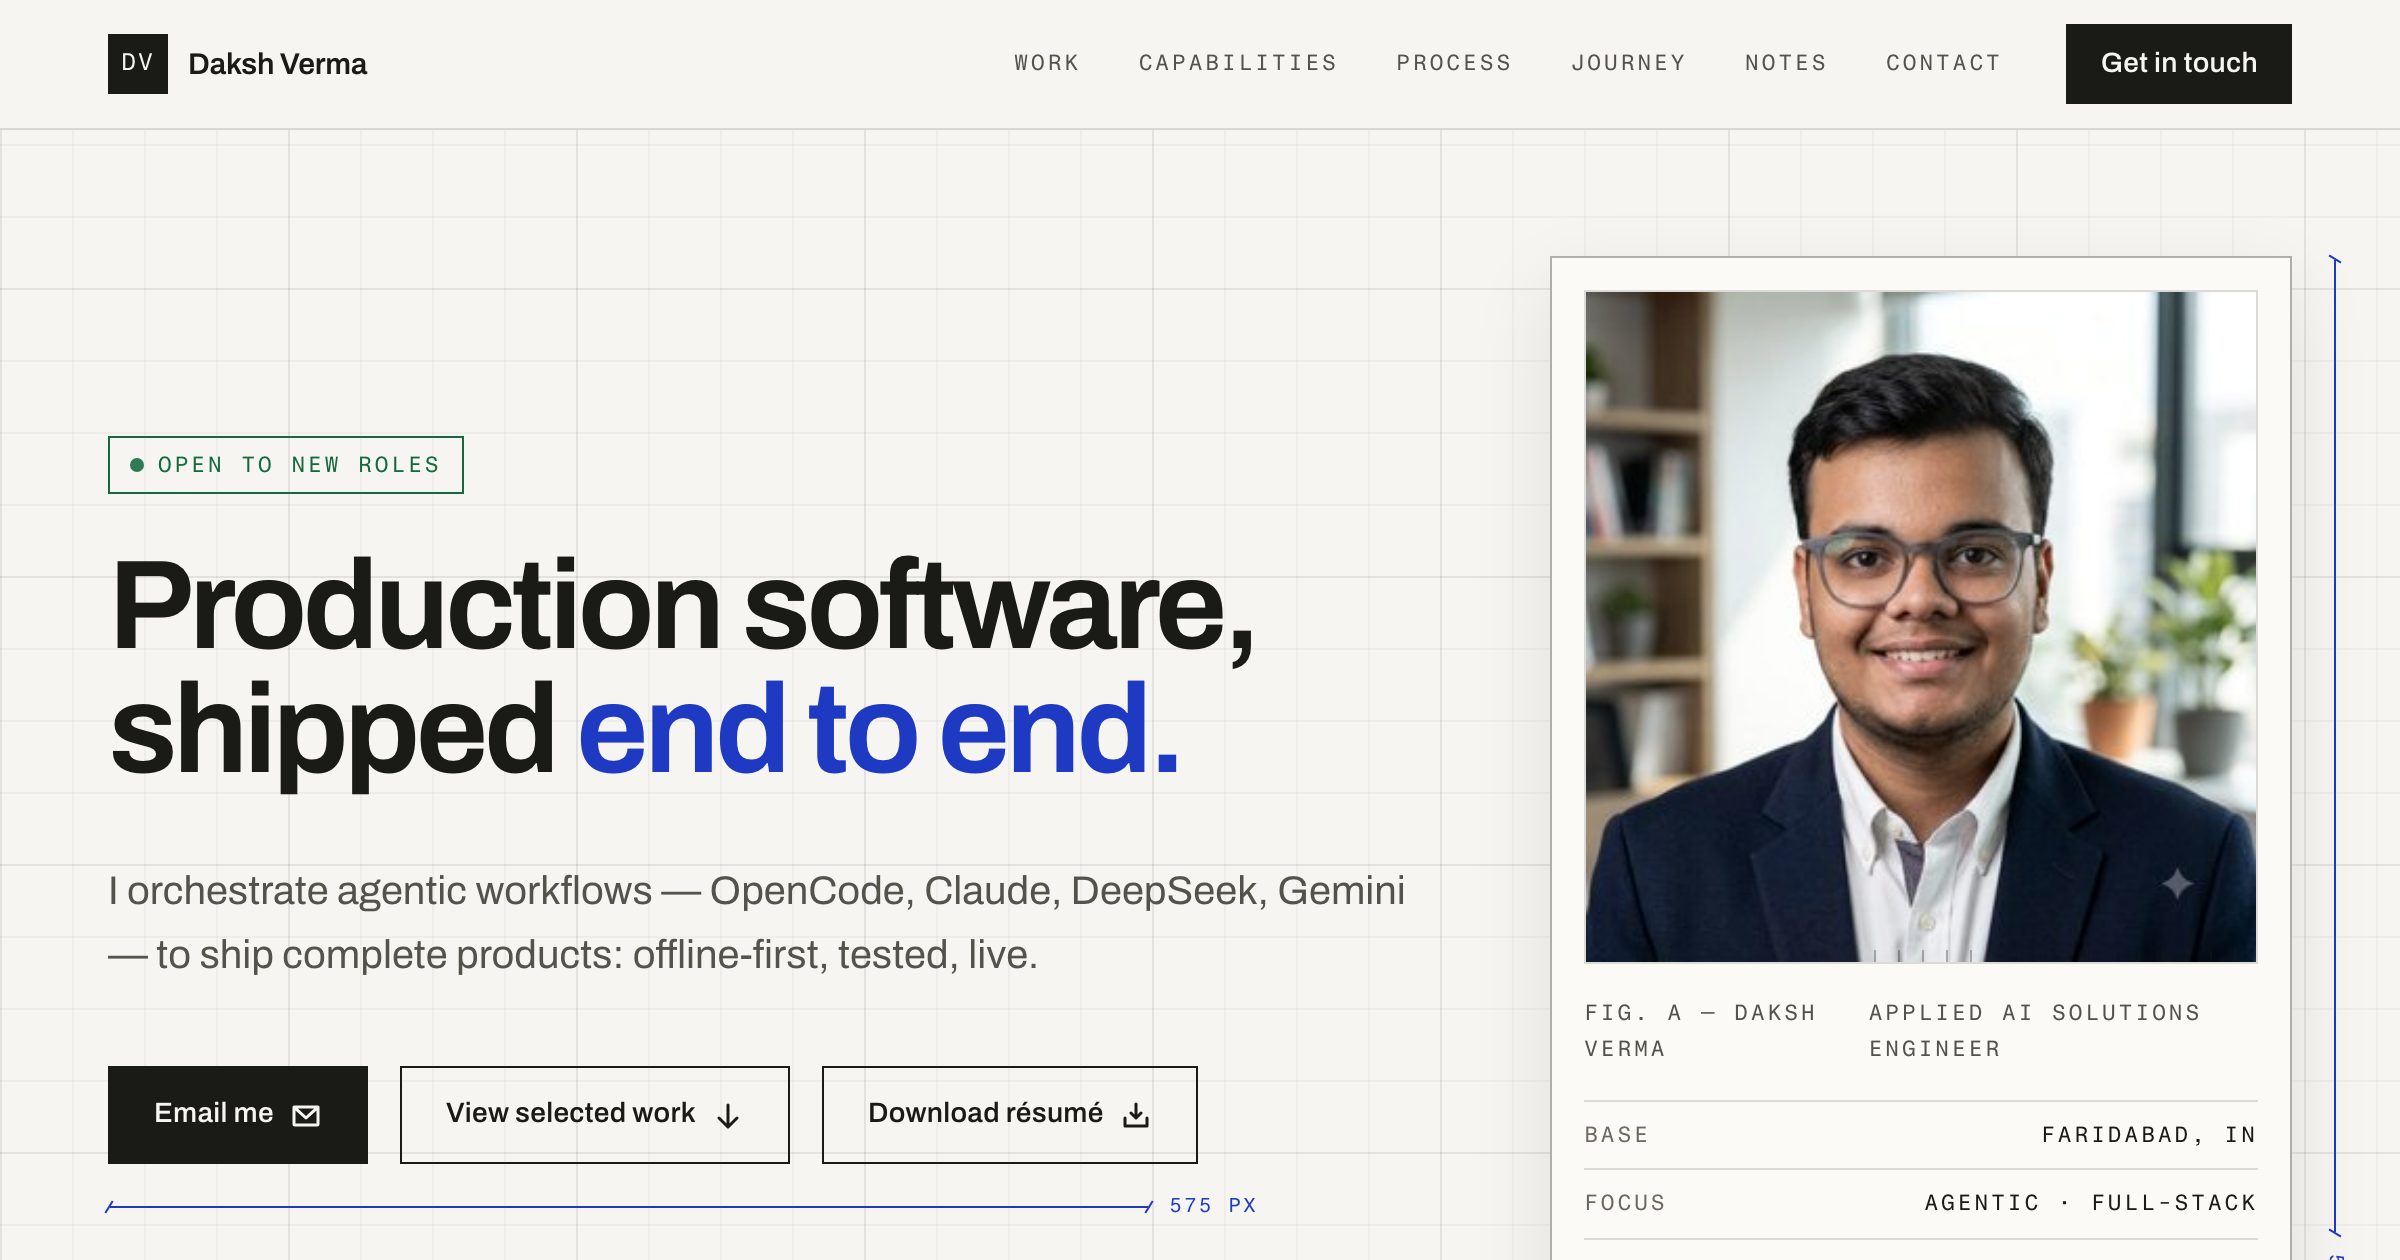
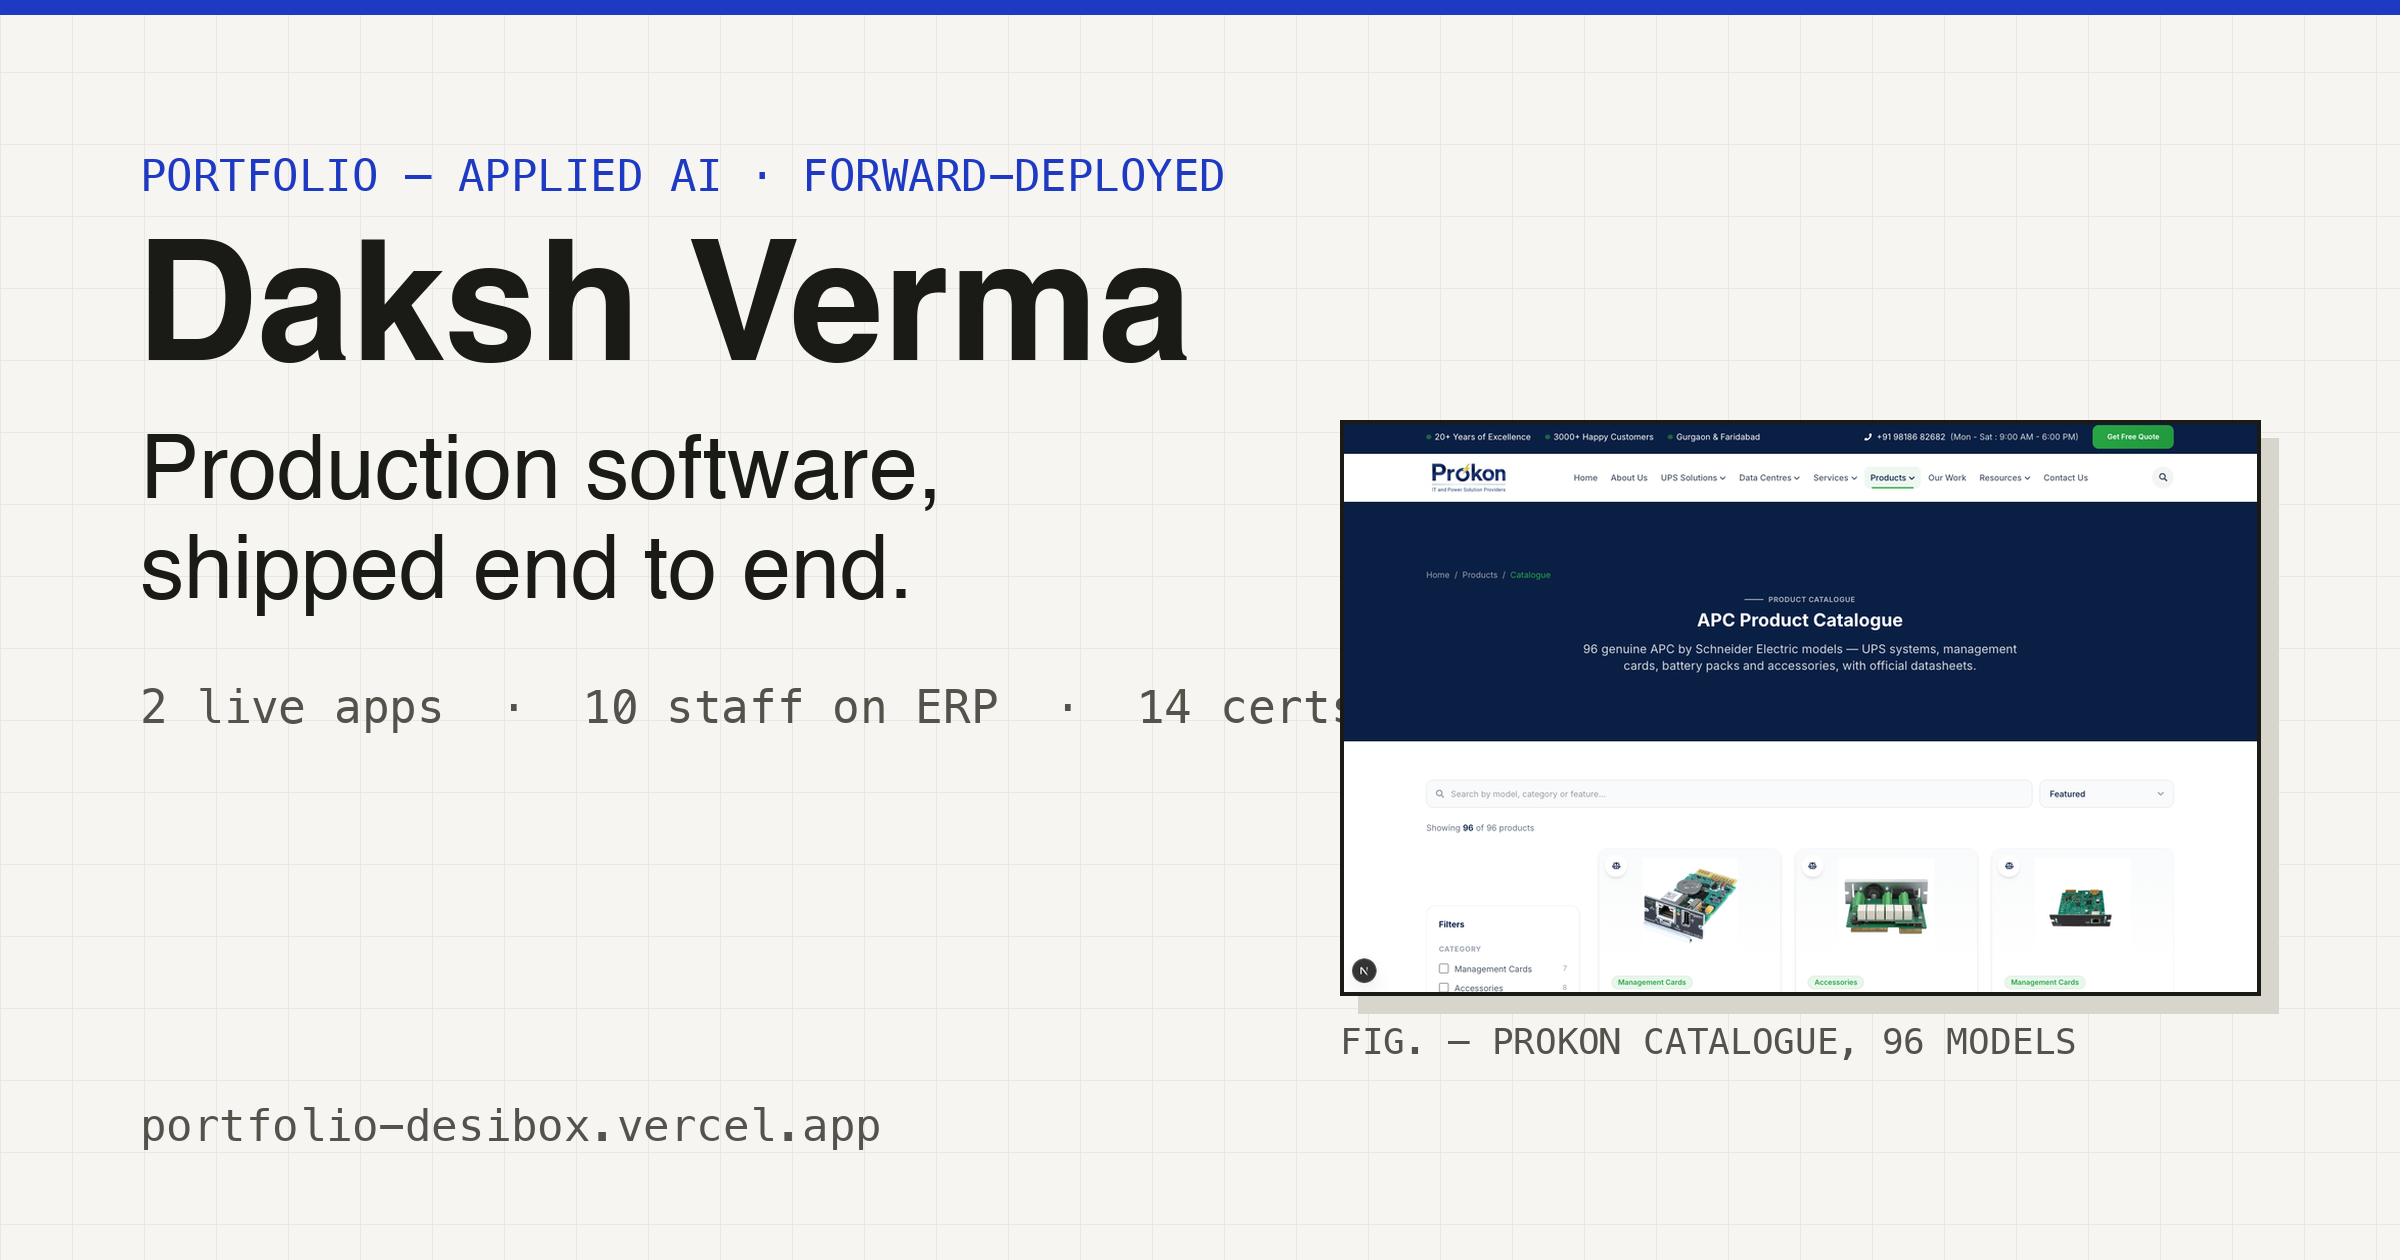
feat(portfolio): [9.seo-parity] dual-role JSON-LD, live content, new og card
- Person description + knowsAbout carry Applied AI, FDE, RAG,
  TypeScript, Next.js, TanStack, ERP/CRM; FAQPage gains 3 questions
  (forward-deployed, website rebuild, ERP/CRM)
- llms.txt/llms-full.txt: Building-now section, 8-domain skills,
  new notes; cert count drift 15+ to 14 fixed
- og-image rebuilt 2400x1260: name, positioning, proof points,
  catalogue figure

diff --git a/index.html b/index.html
@@ -34,7 +34,7 @@
       "@type": "Person",
       "name": "Daksh Verma",
       "jobTitle": "Applied AI Solutions Engineer",
-      "description": "Applied AI Solutions Engineer building end-to-end AI-powered products — data pipelines, AI orchestration with OpenCode, and production full-stack web applications.",
+      "description": "Applied AI Solutions Engineer building end-to-end AI-powered products — agentic workflows, RAG assistants, multi-model orchestration — and deploying them forward, embedded with the operators who use them. Currently shipping a company website rebuild and an ERP/CRM used daily by 10 staff at Prokon Hi-Tech.",
       "url": "https://portfolio-desibox.vercel.app/",
       "image": "https://portfolio-desibox.vercel.app/og-image.png",
       "email": "mailto:vermadaksh120@gmail.com",
@@ -44,7 +44,7 @@
         "addressLocality": "Faridabad",
         "addressCountry": "IN"
       },
-      "knowsAbout": ["Artificial Intelligence", "Prompt Engineering", "AI Orchestration", "Agentic Workflows", "SQL", "MongoDB", "Power BI", "Data Engineering", "React", "Python"],
+      "knowsAbout": ["Artificial Intelligence", "Forward-Deployed Engineering", "Prompt Engineering", "AI Orchestration", "Agentic Workflows", "RAG", "TypeScript", "Next.js", "TanStack Start", "SQL", "PostgreSQL", "MongoDB", "Power BI", "Data Engineering", "ERP/CRM Systems", "React", "Python"],
       "sameAs": ["https://www.linkedin.com/in/daksh-verma-613774229/", "https://github.com/Madav-Verma"],
       "worksFor": {
         "@type": "Organization",
@@ -66,7 +66,31 @@
           "name": "What does Daksh Verma do?",
           "acceptedAnswer": {
             "@type": "Answer",
-            "text": "Applied AI Solutions Engineer in Faridabad, India. I ship complete production products with agentic workflows, orchestrating OpenCode, Claude, DeepSeek and Gemini from scope to deploy. Currently at Prokon Hi-Tech and open to new roles."
+            "text": "Applied AI Solutions Engineer in Faridabad, India, working in a forward-deployed way — embedded with the operators who use the software. I ship complete production products with agentic workflows, orchestrating OpenCode, Claude, DeepSeek and Gemini from scope to deploy. Currently at Prokon Hi-Tech and open to new roles."
+          }
+        },
+        {
+          "@type": "Question",
+          "name": "What is a forward-deployed engineer, and how does that fit you?",
+          "acceptedAnswer": {
+            "@type": "Answer",
+            "text": "Someone who ships software inside the customer's reality instead of a clean spec — discovery on site, design under real constraints, rollout and adoption. My jewellery-store suite is offline-first because the shop's internet is unreliable; the gate attendance system assumes connectivity drops at check-in; the Prokon ERP replaced spreadsheets 10 staff touch daily."
+          }
+        },
+        {
+          "@type": "Question",
+          "name": "What is the Prokon website rebuild?",
+          "acceptedAnswer": {
+            "@type": "Answer",
+            "text": "A full Next.js 16 and TypeScript rebuild of the company site: a 96-model APC catalogue with faceted search and side-by-side compare, a retrieval-grounded assistant that answers from the product knowledge base, and interactive tools like a backup-load calculator. In development now, hosting in progress."
+          }
+        },
+        {
+          "@type": "Question",
+          "name": "What does the Prokon ERP/CRM do?",
+          "acceptedAnswer": {
+            "@type": "Answer",
+            "text": "A company-wide operations platform in daily use by 10 staff: CRM from leads to invoices with incentives, sales and purchase flows, serial-tracked inventory, and field service with P1-to-P5 ticket triage plus an engineer portal. Ticket and AMC dashboards update live as the team works."
           }
         },
         {
